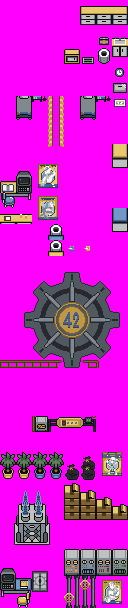
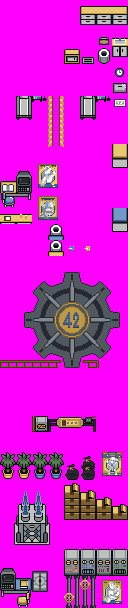
feat: SPECIES_NANNY registration, Miss Nanny NPC in Medical Bay, title skip fix
Register SPECIES_NANNY (Steel/Fairy, Chansey-stat clone) as the first
custom species in Fallout Evolution. Migrate Miss Nanny sprite from
graphics/birch_speech/ to graphics/pokemon/nanny/ as proper species
assets (anim_front 64x128, overworld 192x32, normal/shiny palettes for
both battle and overworld). The intro sequence now loads from the new
location; any design iteration on the battle sprite automatically
reflects in the intro.

Place Miss Nanny as an NPC in Vault42 Medical Bay at (8, 6) with stub
greeting dialogue. Player warp spawn moved to (6, 5).

Fix title screen skip path: pressing A during phase 2 now snaps tBg2Y
to -8 so the existing storm-reveal trigger (tBg2Y == -8) fires even on
skip. Previously, skipping mid-slide bypassed InitStormReveal entirely,
leaving the background pulse uninitialized.

Rebuild vault_industrial secondary tileset with new medical bay middle
and top layer PNGs.

Changed region(s): [[0.625, 0.1562, 0.75, 0.2188], [0.125, 0.1562, 0.25, 0.2188]]

diff --git a/src/data/pokemon/species_info.h b/src/data/pokemon/species_info.h
@@ -174,6 +174,70 @@ const struct SpeciesInfo gSpeciesInfo[] =
         .iconPalIndex = 1,
     },
 
+    [SPECIES_NANNY] =
+    {
+        .baseHP        = 250,
+        .baseAttack    = 5,
+        .baseDefense   = 5,
+        .baseSpeed     = 50,
+        .baseSpAttack  = 35,
+        .baseSpDefense = 105,
+        .types = MON_TYPES(TYPE_STEEL, TYPE_FAIRY),
+        .catchRate = 30,
+        .expYield = 255,
+        .evYield_HP = 2,
+        .genderRatio = PERCENT_FEMALE(50),
+        .eggCycles = 40,
+        .friendship = 140,
+        .growthRate = GROWTH_FAST,
+        .eggGroups = MON_EGG_GROUPS(EGG_GROUP_MINERAL),
+        .abilities = { ABILITY_LEVITATE, ABILITY_ANALYTIC },
+        .bodyColor = BODY_COLOR_PINK,
+        .speciesName = _("Nanny"),
+        .cryId = CRY_PORYGON,
+        .natDexNum = NATIONAL_DEX_NONE,
+        .categoryName = _("Caretaker"),
+        .height = 12,
+        .weight = 700,
+        .description = COMPOUND_STRING(
+            "A pre-War robotic caretaker built by\n"
+            "General Atomics International. Programmed\n"
+            "for child care and gentle instruction.\n"
+            "Hovers on a single ducted thruster."),
+        .pokemonScale = 256,
+        .pokemonOffset = 0,
+        .trainerScale = 256,
+        .trainerOffset = 0,
+        .frontPic = gMonFrontPic_Nanny,
+        .frontPicSize = MON_COORDS_SIZE(64, 64),
+        .frontPicYOffset = 0,
+        .frontAnimFrames = sAnims_TwoFramePlaceHolder,
+        .frontAnimId = ANIM_V_SQUISH_AND_BOUNCE_SLOW,
+        .backPic = gMonBackPic_CircledQuestionMark,
+        .backPicSize = MON_COORDS_SIZE(64, 64),
+        .backPicYOffset = 7,
+        .backAnimId = BACK_ANIM_NONE,
+        .palette = gMonPalette_Nanny,
+        .shinyPalette = gMonShinyPalette_Nanny,
+        .iconSprite = gMonIcon_QuestionMark,
+        .iconPalIndex = 0,
+        FOOTPRINT(QuestionMark)
+    #if OW_POKEMON_OBJECT_EVENTS
+        OVERWORLD(
+            sPicTable_Nanny,
+            SIZE_32x32,
+            SHADOW_SIZE_M,
+            TRACKS_FOOT,
+            sAnimTable_Following,
+            gOverworldPalette_Nanny,
+            gShinyOverworldPalette_Nanny
+        )
+    #endif
+        .levelUpLearnset = sNoneLevelUpLearnset,
+        .teachableLearnset = sNoneTeachableLearnset,
+        .eggMoveLearnset = sNoneEggMoveLearnset,
+    },
+
     /* You may add any custom species below this point based on the following structure: */
 
     /*

diff --git a/src/data/graphics/pokemon.h b/src/data/graphics/pokemon.h
@@ -27503,6 +27503,18 @@ const u32 gObjectEventPic_Substitute[] = INCBIN_COMP("graphics/pokemon/question_
 #endif //OW_POKEMON_OBJECT_EVENTS
 #endif //P_FAMILY_PECHARUNT
 
+// Miss Nanny (Fallout Evolution custom species)
+const u32 gMonFrontPic_Nanny[] = INCBIN_U32("graphics/pokemon/nanny/anim_front.4bpp.smol");
+const u16 gMonPalette_Nanny[] = INCBIN_U16("graphics/pokemon/nanny/normal.gbapal");
+const u16 gMonShinyPalette_Nanny[] = INCBIN_U16("graphics/pokemon/nanny/shiny.gbapal");
+#if OW_POKEMON_OBJECT_EVENTS
+const u32 gObjectEventPic_Nanny[] = INCBIN_COMP("graphics/pokemon/nanny/overworld.4bpp");
+#if OW_PKMN_OBJECTS_SHARE_PALETTES == FALSE
+const u16 gOverworldPalette_Nanny[] = INCBIN_U16("graphics/pokemon/nanny/overworld_normal.gbapal");
+const u16 gShinyOverworldPalette_Nanny[] = INCBIN_U16("graphics/pokemon/nanny/overworld_shiny.gbapal");
+#endif //OW_PKMN_OBJECTS_SHARE_PALETTES
+#endif //OW_POKEMON_OBJECT_EVENTS
+
     const u32 gMonFrontPic_Egg[] = INCBIN_U32("graphics/pokemon/egg/anim_front.4bpp.smol");
     const u16 gMonPalette_Egg[] = INCBIN_U16("graphics/pokemon/egg/normal.gbapal");
     const u8 gMonIcon_Egg[] = INCBIN_U8("graphics/pokemon/egg/icon.4bpp");

diff --git a/src/field_effect.c b/src/field_effect.c
@@ -268,9 +268,9 @@ static u8 sActiveList[32];
 extern u8 *gFieldEffectScriptPointers[];
 extern const struct SpriteTemplate *const gFieldEffectObjectTemplatePointers[];
 
-static const u32 sNewGameBirch_Gfx[] = INCBIN_U32("graphics/birch_speech/birch.4bpp");
+static const u32 sNewGameBirch_Gfx[] = INCBIN_U32("graphics/pokemon/nanny/anim_front.4bpp");
 static const u32 sUnusedBirchBeauty[] = INCBIN_U32("graphics/birch_speech/unused_beauty.4bpp");
-static const u16 sNewGameBirch_Pal[16] = INCBIN_U16("graphics/birch_speech/birch.gbapal");
+static const u16 sNewGameBirch_Pal[16] = INCBIN_U16("graphics/pokemon/nanny/normal.gbapal");
 
 static const u32 sPokeballGlow_Gfx[] = INCBIN_U32("graphics/field_effects/pics/pokeball_glow.4bpp");
 static const u16 sPokeballGlow_Pal[16] = INCBIN_U16("graphics/field_effects/palettes/pokeball_glow.gbapal");
@@ -356,7 +356,8 @@ static const struct OamData sOam_16x16 =
 
 static const struct SpriteFrameImage sPicTable_NewGameBirch[] =
 {
-    obj_frame_tiles(sNewGameBirch_Gfx)
+    overworld_frame(sNewGameBirch_Gfx, 8, 8, 0),
+    overworld_frame(sNewGameBirch_Gfx, 8, 8, 1),
 };
 
 static const struct SpritePalette sSpritePalette_NewGameBirch =

diff --git a/include/constants/species.h b/include/constants/species.h
@@ -1688,7 +1688,10 @@
 #define SPECIES_TATSUGIRI_STRETCHY_MEGA                 1571
 #define SPECIES_GLIMMORA_MEGA                           1572
 
-#define SPECIES_EGG                                     (SPECIES_GLIMMORA_MEGA + 1)
+// Fallout Evolution custom species
+#define SPECIES_NANNY                                   1573
+
+#define SPECIES_EGG                                     (SPECIES_NANNY + 1)
 
 #define NUM_SPECIES SPECIES_EGG
 

diff --git a/src/data/object_events/object_event_pic_tables_followers.h b/src/data/object_events/object_event_pic_tables_followers.h
@@ -6729,4 +6729,9 @@ static const struct SpriteFrameImage sPicTable_Pecharunt[] = {
 };
 #endif //P_FAMILY_PECHARUNT
 
+// Miss Nanny (Fallout Evolution custom species)
+static const struct SpriteFrameImage sPicTable_Nanny[] = {
+    overworld_ascending_frames(gObjectEventPic_Nanny, 4, 4),
+};
+
 #endif //OW_POKEMON_OBJECT_EVENTS

diff --git a/src/title_screen.c b/src/title_screen.c
@@ -726,6 +726,7 @@ static void Task_TitleScreenPhase2(u8 taskId)
     {
         gTasks[taskId].tSkipToNext = TRUE;
         gTasks[taskId].tCounter = 0;
+        gTasks[taskId].tBg2Y = -8;
     }
 
     if (gTasks[taskId].tCounter != 0)